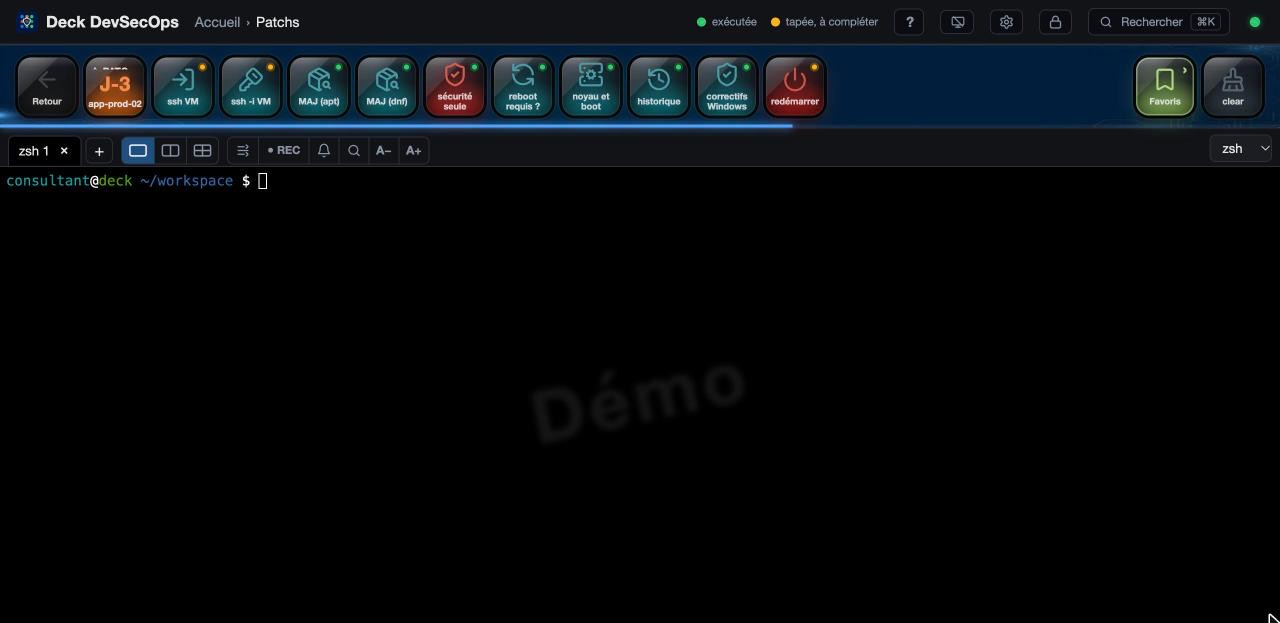
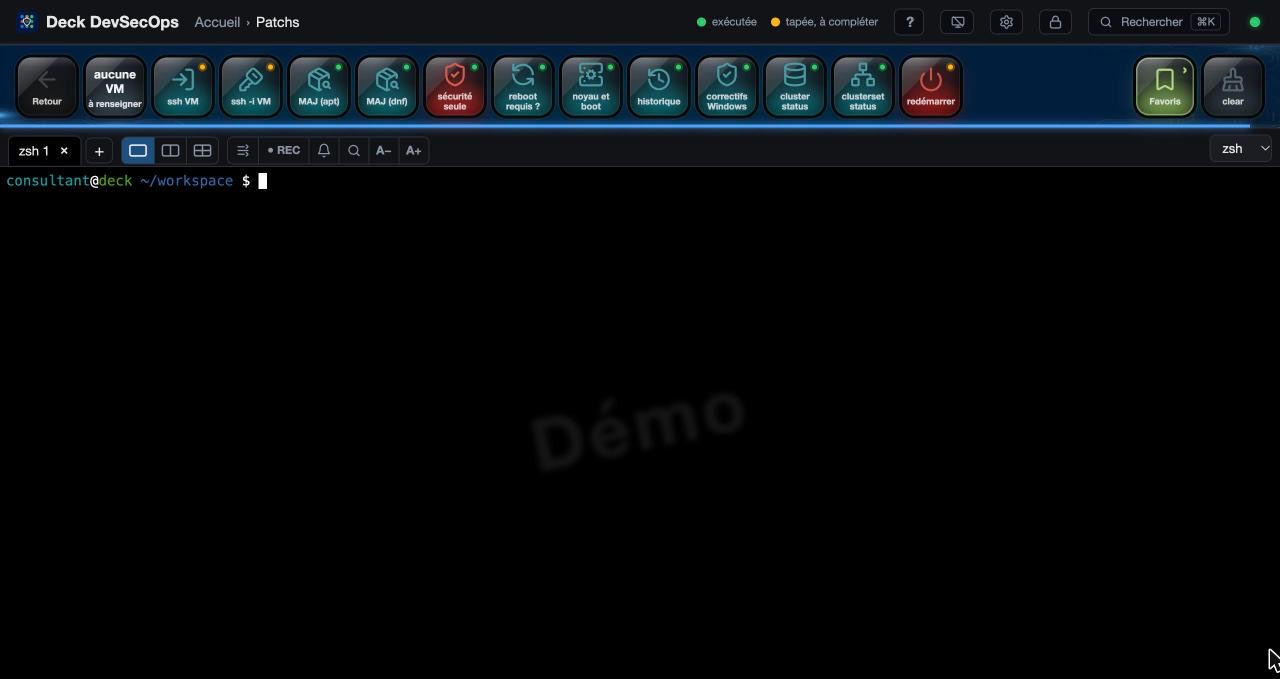
Patchs : clusters (MySQL InnoDB…) dans l'inventaire, vue en blocs, cluster status / clusterset status
- VM : champs Cluster, ClusterSet et Profil (standard, MySQL InnoDB Cluster), noms contrôlés ;
  colonnes CSV cluster, clusterset, profil (import, export, modèle) ; recherche étendue
- « ⬡ par cluster » : un bloc par cluster encadré aux couleurs de l'environnement ; en-tête
  (ClusterSet, profil, état le plus urgent) et carte des nœuds (état du patch, ↻ reboot requis,
  ⚠ sécurité, ✕ vérification en échec) ; clic pour replier / déplier ; choix retenus
- Dupliquer un nœud garde cluster, ClusterSet et profil
- Rubrique Patchs : touches cluster status et clusterset status (mysqlsh sur un nœud, après
  le ssh ; mot de passe demandé dans le terminal)
- Tests (91) ; docs/13 et captures ; README

Changed region(s): [[0.0, 0.0, 1.0, 0.305], [0.9688, 0.9759, 1.0, 1.0]]

diff --git a/public/app.js b/public/app.js
@@ -3854,6 +3854,84 @@ function setPatchSort(key, desc) {
 let patchPending = false;  // formulaire envoyé, en attente du serveur
 const patchChecking = new Set();   // VMs en cours de vérification (ssh, lecture seule)
 
+/** Regroupement de l'inventaire par cluster (retenu dans le navigateur). */
+let patchGroupByCluster = (() => { try { return localStorage.getItem("deck-patch-group") === "cluster"; } catch { return false; } })();
+
+/** Cluster et profil d'une VM, sous son nom. */
+function patchClusterLine(vm) {
+    if (!vm.cluster && !vm.profile) return "";
+    const div = Object.assign(document.createElement("div"), { className: "patch-cluster-line" });
+    if (vm.cluster) div.append(Object.assign(document.createElement("span"), { className: "patch-cluster", textContent: `⬡ ${vm.cluster}`, title: `Cluster ${vm.cluster}${vm.clusterSet ? ` · ClusterSet ${vm.clusterSet}` : ""}` }));
+    if (vm.profile === "mysql-innodb") div.append(Object.assign(document.createElement("span"), { className: "patch-profile", textContent: "MySQL InnoDB", title: "Profil MySQL InnoDB Cluster" }));
+    return div;
+}
+
+/** Clusters repliés (en-tête seul), retenus dans le navigateur. */
+const patchFolded = (() => { try { return new Set(JSON.parse(localStorage.getItem("deck-patch-folded") ?? "[]")); } catch { return new Set(); } })();
+
+/** Environnement d'un cluster (celui de la majorité de ses nœuds) : couleur du bloc. */
+function clusterEnv(cluster, all) {
+    const counts = {};
+    for (const v of all) if (v.cluster === cluster) counts[v.env] = (counts[v.env] ?? 0) + 1;
+    return Object.entries(counts).sort((a, b) => b[1] - a[1])[0]?.[0] ?? "";
+}
+
+/** Niveau d'urgence du patch d'une VM (comme sur sa ligne). */
+const vmLevel = (v) => { const d = patchDays(v); return d === null ? "orange" : d <= 1 ? "rouge" : d <= 7 ? "orange" : "ok"; };
+
+/**
+ * En-tête d'un cluster (mode regroupé) : nom, environnement, ClusterSet, profil ; carte des nœuds (pastille par nœud
+ * selon son état, ↻ reboot requis, ⚠ sécurité en attente) ; état le plus urgent ; clic = replier / déplier.
+ */
+function patchClusterHeader(cluster, nodes, all, folded = false) {
+    const env = cluster ? clusterEnv(cluster, all) : "";
+    const tr = Object.assign(document.createElement("tr"), { className: `patch-group grp-${cluster ? env || "autre" : "none"}${folded ? " folded" : ""}` });
+    const td = Object.assign(document.createElement("td"), { colSpan: 6 });
+    const el = (cls, text, title) => Object.assign(document.createElement("span"), { className: cls, textContent: text, ...(title ? { title } : {}) });
+    if (!cluster) {
+        td.append(el("patch-group-name none", "Sans cluster"), el("patch-group-meta", `${nodes.length} VM(s)`));
+        tr.append(td);
+        return tr;
+    }
+    const total = all.filter((v) => v.cluster === cluster);
+    const sets = [...new Set(total.map((v) => v.clusterSet).filter(Boolean))];
+    const levels = total.map(vmLevel);
+    const worst = levels.includes("rouge") ? "rouge" : levels.includes("orange") ? "orange" : "ok";
+    const checks = total.filter((v) => v.check && !v.check.error).length;
+    const reboot = total.filter((v) => v.check?.reboot).length;
+    const top = Object.assign(document.createElement("div"), { className: "patch-group-top" });
+    top.append(
+        el("patch-group-fold", folded ? "▸" : "▾"),
+        el("patch-group-icon", "⬡"),
+        el("patch-group-name", cluster),
+        ...[...new Set(total.map((v) => v.env))].map((e) => el(`patch-env env-${e}`, e)),
+        ...(sets.length ? [el("patch-group-meta", `ClusterSet ${sets.join(", ")}`)] : []),
+        ...(total.some((v) => v.profile === "mysql-innodb") ? [el("patch-profile", "MySQL InnoDB")] : []),
+        el("grow", ""),
+        el(`patch-group-state lvl-${worst}`, worst === "rouge" ? "patch en retard ou imminent" : worst === "orange" ? "patch sous 7 j" : "à jour")
+    );
+    // Carte des nœuds : un coup d'œil sur tout le cluster, même replié
+    const map = Object.assign(document.createElement("div"), { className: "patch-group-nodes" });
+    for (const v of [...total].sort((a, b) => a.name.localeCompare(b.name, "fr", { numeric: true }))) {
+        const d = patchDays(v);
+        const flags = `${v.check?.reboot ? " ↻" : ""}${v.check?.security ? " ⚠" : ""}${v.check?.error ? " ✕" : ""}`;
+        const pill = el(`patch-node-pill lvl-${vmLevel(v)}${nodes.includes(v) ? "" : " hidden-by-filter"}`, "",
+            `${v.name} · ${v.env} · prochain patch ${frDate(v.nextPatch)} (${patchLabel(d)})${v.check?.reboot ? " · reboot requis" : ""}${v.check?.security ? ` · ${v.check.security} MAJ de sécurité` : ""}${v.check?.error ? ` · vérification : ${v.check.error}` : ""}`);
+        pill.append(el("patch-node-dot", "●"), ` ${v.name}`, ...(flags ? [el("patch-node-flags", flags)] : []));
+        map.append(pill);
+    }
+    map.append(el("patch-group-meta", `${total.length} nœud(s)${nodes.length < total.length ? ` · ${nodes.length} affiché(s)` : ""}${checks ? ` · ${checks} vérifié(s)` : ""}${reboot ? ` · ${reboot} reboot requis` : ""}`));
+    td.append(top, map);
+    td.title = folded ? "Clic : déplier le cluster" : "Clic : replier le cluster (en-tête seul)";
+    tr.addEventListener("click", () => {
+        if (patchFolded.has(cluster)) patchFolded.delete(cluster); else patchFolded.add(cluster);
+        try { localStorage.setItem("deck-patch-folded", JSON.stringify([...patchFolded])); } catch { /* choix non retenu */ }
+        renderPatches();
+    });
+    tr.append(td);
+    return tr;
+}
+
 /** « il y a 2 h » / « hier » à partir d'une date ISO. */
 function ago(iso) {
     const min = Math.round((Date.now() - Date.parse(iso)) / 60000);
@@ -3908,7 +3986,7 @@ function renderPatches() {
     const vms = state.patches ?? [];
     const q = fold($("#patch-search").value.trim());
     renderPatchFilters(vms);
-    const shown = vms.filter((v) => !q || fold(`${v.name} ${v.host} ${v.env} ${v.description} ${(v.tags ?? []).join(" ")}`).includes(q))
+    const shown = vms.filter((v) => !q || fold(`${v.name} ${v.host} ${v.env} ${v.description} ${(v.tags ?? []).join(" ")} ${v.cluster ?? ""} ${v.clusterSet ?? ""}`).includes(q))
         .filter((v) => !patchFilter.env || v.env === patchFilter.env)
         .filter((v) => [...patchFilter.tags].every((t) => (v.tags ?? []).includes(t)))
         .filter((v) => !patchFilter.state || PATCH_STATES.find(([k]) => k === patchFilter.state)?.[2](v))
@@ -3921,7 +3999,8 @@ function renderPatches() {
     }
     const late = vms.filter((v) => (patchDays(v) ?? 0) < 0).length;
     $("#patch-summary").textContent = vms.length ? `${vms.length} VM(s)${late ? ` · ${late} en retard` : ""}` : "";
-    $("#patch-list").replaceChildren(...shown.map((vm) => {
+    const grouped = patchGroupByCluster && shown.some((v) => v.cluster);
+    const rowFor = (vm) => {
         const d = patchDays(vm);
         const level = d === null || d <= 7 ? (d === null || d > 1 ? "orange" : "rouge") : "ok";
         const tr = Object.assign(document.createElement("tr"), { className: `patch-${level}` });
@@ -3937,7 +4016,8 @@ function renderPatches() {
         const del = btn("Supprimer", "Retirer cette VM de l'inventaire", (ev) => armOrRun(ev.target, "Confirmer ?", () => send({ t: "patch-delete", id: vm.id })), "danger");
         tr.append(
             cell(Object.assign(document.createElement("span"), { className: "patch-dot", textContent: level === "rouge" ? "🔴" : level === "orange" ? "🟠" : "🟢" })),
-            cell([name, " ", env, ...tags.flatMap((t) => [" ", t]), host, patchCheckLine(vm)]),
+            // Mode regroupé : cluster et profil déjà dans l'en-tête du groupe
+            cell([name, " ", env, ...tags.flatMap((t) => [" ", t]), grouped ? "" : patchClusterLine(vm), host, patchCheckLine(vm)]),
             cell(vm.description || "—", "patch-desc"),
             cell(`${frDate(vm.lastPatch)}${vm.everyDays ? ` · tous les ${vm.everyDays} j` : ""}`),
             cell([next, when]),
@@ -3955,7 +4035,34 @@ function renderPatches() {
             ], "patch-actions")
         );
         return tr;
-    }));
+    };
+    // Regroupement par cluster : en-tête par cluster (environnement, ClusterSet, profil, nœuds, état), nœuds dessous ;
+    // ordre des groupes = celui du nœud le plus haut dans le tri ; VMs sans cluster à la fin
+    if (grouped) {
+        const groups = new Map();
+        for (const vm of shown) {
+            const key = vm.cluster || "";
+            if (!groups.has(key)) groups.set(key, []);
+            groups.get(key).push(vm);
+        }
+        const ordered = [...groups].sort(([a], [b]) => (a === "") - (b === ""));
+        // Un bloc par cluster : espace, en-tête, nœuds (sauf replié) encadrés aux couleurs de l'environnement
+        $("#patch-list").replaceChildren(...ordered.flatMap(([cluster, nodes], gi) => {
+            const env = cluster ? clusterEnv(cluster, vms) : "";
+            const folded = cluster && patchFolded.has(cluster);
+            const rows = folded ? [] : nodes.map((vm, i) => {
+                const tr = rowFor(vm);
+                tr.classList.add("patch-node", `grp-${cluster ? env || "autre" : "none"}`);
+                if (i === nodes.length - 1) tr.classList.add("last");
+                return tr;
+            });
+            const spacer = Object.assign(document.createElement("tr"), { className: "patch-spacer" });
+            spacer.append(Object.assign(document.createElement("td"), { colSpan: 6 }));
+            return [...(gi ? [spacer] : []), patchClusterHeader(cluster, nodes, vms, folded), ...rows];
+        }));
+    } else {
+        $("#patch-list").replaceChildren(...shown.map(rowFor));
+    }
     if (!shown.length) {
         const tr = document.createElement("tr");
         tr.append(Object.assign(document.createElement("td"), { colSpan: 6, className: "hint", textContent: vms.length ? "aucune VM ne correspond" : "aucune VM : « + VM » pour commencer" }));
@@ -3993,6 +4100,13 @@ function openPatchForm(vm = null, { duplicate = false } = {}) {
     $("#patch-every").value = vm?.everyDays ?? "";
     $("#patch-desc").value = vm?.description ?? "";
     $("#patch-tags").value = (vm?.tags ?? []).join(", ");
+    $("#patch-cluster").value = vm?.cluster ?? "";
+    $("#patch-clusterset").value = vm?.clusterSet ?? "";
+    $("#patch-profile").value = vm?.profile ?? "";
+    // Clusters et ClusterSets déjà utilisés proposés à la saisie
+    const usedValues = (k) => [...new Set((state.patches ?? []).map((v) => v[k]).filter(Boolean))].sort();
+    $("#patch-cluster-list").replaceChildren(...usedValues("cluster").map((c) => new Option(c)));
+    $("#patch-clusterset-list").replaceChildren(...usedValues("clusterSet").map((c) => new Option(c)));
     // Tags déjà utilisés proposés à la saisie
     const known = [...new Set((state.patches ?? []).flatMap((v) => v.tags ?? []))].sort();
     $("#patch-tag-list").replaceChildren(...known.map((t) => new Option(t)));
@@ -4010,7 +4124,8 @@ function savePatch() {
         ...(patchEditing ? { id: patchEditing.id } : {}),
         name: $("#patch-name").value, host: $("#patch-host").value, identity: $("#patch-identity").value, env: $("#patch-env").value,
         lastPatch: $("#patch-last").value, nextPatch: $("#patch-next").value,
-        everyDays: $("#patch-every").value, description: $("#patch-desc").value, tags: $("#patch-tags").value
+        everyDays: $("#patch-every").value, description: $("#patch-desc").value, tags: $("#patch-tags").value,
+        cluster: $("#patch-cluster").value, clusterSet: $("#patch-clusterset").value, profile: $("#patch-profile").value
     } });
 }
 
@@ -4044,9 +4159,16 @@ function renderPatchFilters(vms) {
     sort.addEventListener("change", () => setPatchSort(sort.value, false));
     const dir = Object.assign(document.createElement("button"), { type: "button", className: "patch-chip patch-dir", textContent: patchSort.desc ? "↓ décroissant" : "↑ croissant", title: "Inverser l'ordre" });
     dir.addEventListener("click", () => setPatchSort(patchSort.key, !patchSort.desc));
+    const group = Object.assign(document.createElement("button"), { type: "button", className: `patch-chip patch-group-toggle${patchGroupByCluster ? " on" : ""}`, textContent: "⬡ par cluster", title: "Regrouper les nœuds d'un même cluster (en-tête avec environnement, ClusterSet, état)" });
+    group.setAttribute("aria-pressed", String(patchGroupByCluster));
+    group.addEventListener("click", () => {
+        patchGroupByCluster = !patchGroupByCluster;
+        try { localStorage.setItem("deck-patch-group", patchGroupByCluster ? "cluster" : ""); } catch { /* choix non retenu */ }
+        renderPatches();
+    });
     const row2 = Object.assign(document.createElement("div"), { className: "patch-filter-row" });
     row2.append(Object.assign(document.createElement("span"), { className: "patch-filter-label", textContent: "État" }), ...states,
-        Object.assign(document.createElement("span"), { className: "grow" }), sort, dir);
+        Object.assign(document.createElement("span"), { className: "grow" }), ...(vms.some((v) => v.cluster) ? [group] : []), sort, dir);
     $("#patch-filters").replaceChildren(row1, row2);
     $("#patch-filters").hidden = vms.length === 0;
 }
@@ -4090,9 +4212,10 @@ function showPatchImport(msg) {
     $("#patch-import-confirm").hidden = false;
 }
 
-const PATCH_TEMPLATE = "\uFEFFnom;hote;cle;environnement;dernier_patch;prochain_patch;frequence;tags;description\r\n"
-    + "app-prod-01;app-prod-01;~/.ssh/id_ed25519;production;10/10/2026;;30;linux, critique;API paiement (RHEL 9), maintenance le mardi 22h\r\n"
-    + "db-recette-01;admin@10.0.0.12;;recette;;15/12/2026;;linux, postgres;PostgreSQL 16\r\n";
+const PATCH_TEMPLATE = "\uFEFFnom;hote;cle;environnement;dernier_patch;prochain_patch;frequence;tags;cluster;clusterset;profil;description\r\n"
+    + "app-prod-01;app-prod-01;~/.ssh/id_ed25519;production;10/10/2026;;30;linux, critique;;;standard;API paiement (RHEL 9), maintenance le mardi 22h\r\n"
+    + "mysql-rec-01;admin@10.0.0.21;;recette;;15/12/2026;30;linux, mysql;CL-MYSQL-REC;CS_MYSQL;mysql;Nœud 1 du cluster MySQL de recette\r\n"
+    + "mysql-rec-02;admin@10.0.0.22;;recette;;16/12/2026;30;linux, mysql;CL-MYSQL-REC;CS_MYSQL;mysql;Nœud 2 (un nœud à la fois)\r\n";
 
 /** VM passée à l'orange / au rouge : message et notification du système (si autorisée), une fois par seuil. */
 function patchAlert(alerts) {

diff --git a/public/style.css b/public/style.css
@@ -1552,3 +1552,62 @@ input[type="date"]::-webkit-calendar-picker-indicator:hover, input[type="datetim
 }
 #screens.grid .screen.remote-host::after { color: #fff; background: var(--remote-c); font-weight: 700; }
 .share-mode #screens:not(.grid) .screen.remote-host::after { filter: blur(4px); }
+/* Patchs : clusters (ligne de la VM, en-têtes en mode regroupé) */
+.patch-cluster-line { display: flex; flex-wrap: wrap; gap: 4px; margin: 2px 0 1px; }
+.patch-cluster { display: inline-block; padding: 0 6px; border-radius: 8px; font-size: 10.5px; font-weight: 700; color: #b39ddb; border: 1px solid color-mix(in srgb, #7e57c2 70%, transparent); }
+.patch-profile { display: inline-block; padding: 0 6px; border-radius: 8px; font-size: 10.5px; font-weight: 700; color: #fff; background: #00758f; }
+[data-mode="light"] .patch-cluster { color: #5e35b1; }
+.patch-table tbody tr.patch-group td { padding: 9px 8px 7px; background: color-mix(in srgb, #7e57c2 16%, var(--panel)) !important; border-top: 2px solid color-mix(in srgb, #7e57c2 60%, transparent); box-shadow: none !important; }
+.patch-table tbody tr.patch-group td > * { margin-right: 8px; vertical-align: middle; }
+.patch-table tbody tr.patch-group.none td { background: color-mix(in srgb, var(--text) 6%, var(--panel)) !important; border-top-color: var(--border); color: var(--muted); font-size: 12px; }
+.patch-group-name { font-weight: 800; font-size: 13.5px; color: var(--text); }
+.patch-group-meta { font-size: 12px; color: var(--muted); }
+.patch-group-state { font-size: 12px; font-weight: 700; }
+.patch-group-state.lvl-rouge { color: #ef5350; }
+.patch-group-state.lvl-orange { color: #ffa040; }
+.patch-group-state.lvl-ok { color: #66bb6a; }
+.patch-table tbody tr.patch-group:hover td { background: color-mix(in srgb, #7e57c2 16%, var(--panel)) !important; }
+.patch-chip.patch-group-toggle.on { background: #7e57c2; color: #fff; }
+/* Patchs regroupés par cluster : un bloc encadré aux couleurs de l'environnement */
+.patch-table tbody tr.grp-production { --grp: #e53935; }
+.patch-table tbody tr.grp-recette { --grp: #1e88e5; }
+.patch-table tbody tr.grp-qualification { --grp: #f9a825; }
+.patch-table tbody tr.grp-développement { --grp: #43a047; }
+.patch-table tbody tr.grp-autre { --grp: #8e24aa; }
+.patch-table tbody tr.grp-none { --grp: var(--border); }
+.patch-table tbody tr.patch-spacer td { height: 14px; padding: 0; border: 0; background: transparent !important; box-shadow: none !important; }
+.patch-table tbody tr.patch-spacer:hover td { background: transparent !important; }
+.patch-table tbody tr.patch-group td {
+    padding: 10px 12px 9px; cursor: pointer;
+    background: color-mix(in srgb, var(--grp) 18%, var(--panel)) !important;
+    border-top: 2px solid var(--grp); border-left: 5px solid var(--grp); border-right: 1px solid var(--grp); border-bottom: 1px solid color-mix(in srgb, var(--grp) 45%, transparent);
+    box-shadow: none !important;
+}
+.patch-table tbody tr.patch-group.folded td { border-bottom: 2px solid var(--grp); }
+.patch-table tbody tr.patch-group:hover td { background: color-mix(in srgb, var(--grp) 26%, var(--panel)) !important; }
+.patch-table tbody tr.patch-group.grp-none td { background: color-mix(in srgb, var(--text) 5%, var(--panel)) !important; border-left-width: 3px; cursor: default; }
+.patch-group-top { display: flex; flex-wrap: wrap; align-items: center; gap: 8px; }
+.patch-group-top .grow { flex: 1; }
+.patch-group-fold { width: 12px; color: var(--muted); font-size: 12px; }
+.patch-group-icon { font-size: 18px; line-height: 1; color: var(--grp); }
+.patch-group-name { font-weight: 800; font-size: 15px; letter-spacing: .02em; color: var(--text); }
+.patch-group-name.none { font-size: 13px; color: var(--muted); }
+.patch-group-state { padding: 2px 10px; border-radius: 10px; font-size: 12px; font-weight: 700; color: #fff; }
+.patch-group-state.lvl-rouge { background: #c62828; }
+.patch-group-state.lvl-orange { background: #e65100; }
+.patch-group-state.lvl-ok { background: #2e7d32; }
+.patch-group-nodes { display: flex; flex-wrap: wrap; align-items: center; gap: 6px; margin: 7px 0 0 20px; }
+.patch-node-pill { padding: 2px 9px; border-radius: 12px; font-size: 12px; font-weight: 600; font-family: Consolas, Menlo, monospace; color: var(--text); background: color-mix(in srgb, var(--text) 8%, transparent); border: 1px solid color-mix(in srgb, var(--text) 18%, transparent); }
+.patch-node-pill.lvl-rouge { border-color: #e53935; background: color-mix(in srgb, #e53935 22%, transparent); }
+.patch-node-pill.lvl-orange { border-color: #fb8c00; background: color-mix(in srgb, #fb8c00 20%, transparent); }
+.patch-node-pill.lvl-ok { border-color: #43a047; background: color-mix(in srgb, #43a047 18%, transparent); }
+.patch-node-pill.hidden-by-filter { opacity: .45; }
+/* Nœuds du cluster : rail de couleur à gauche, cadre à droite et en bas du bloc, léger retrait */
+.patch-table tbody tr.patch-node td:first-child { border-left: 5px solid var(--grp); box-shadow: none; padding-left: 14px; }
+.patch-table tbody tr.patch-node td:last-child { border-right: 1px solid var(--grp); }
+.patch-table tbody tr.patch-node.last td { border-bottom: 2px solid var(--grp); }
+.patch-table tbody tr.patch-node.grp-none td:first-child { border-left-width: 3px; }
+.patch-node-pill .patch-node-dot { color: #43a047; }
+.patch-node-pill.lvl-rouge .patch-node-dot { color: #ff5252; }
+.patch-node-pill.lvl-orange .patch-node-dot { color: #ffa040; }
+.patch-node-flags { color: #ffb74d; font-weight: 800; }

diff --git a/public/index.html b/public/index.html
@@ -639,7 +639,7 @@
                 <strong id="patch-import-title"></strong>
                 <span id="patch-import-summary"></span>
                 <ul id="patch-import-errors" class="patch-import-errors"></ul>
-                <span class="hint">Colonnes reconnues : nom (obligatoire), hote, cle, environnement, dernier_patch, prochain_patch, frequence, tags, description ; séparateur « ; » ou « , » ; dates JJ/MM/AAAA. Les VMs existantes (même nom) sont mises à jour, aucune n'est supprimée. <a href="#" id="patch-template">Télécharger un modèle CSV</a></span>
+                <span class="hint">Colonnes reconnues : nom (obligatoire), hote, cle, environnement, dernier_patch, prochain_patch, frequence, tags, cluster, clusterset, profil (standard ou mysql), description ; séparateur « ; » ou « , » ; dates JJ/MM/AAAA. Les VMs existantes (même nom) sont mises à jour, aucune n'est supprimée. <a href="#" id="patch-template">Télécharger un modèle CSV</a></span>
                 <span class="settings-actions">
                     <button type="button" id="patch-import-ok" class="primary">Importer</button>
                     <button type="button" id="patch-import-cancel">Annuler</button>
@@ -664,6 +664,14 @@
                     <label>Prochain patch <input id="patch-next" type="date"></label>
                     <label>Fréquence <span class="hint">jours, facultatif (ex. 30)</span> <input id="patch-every" type="number" min="1" max="730" step="1"></label>
                     <label class="patch-tags-field">Tags <span class="hint">facultatif, séparés par des virgules (ex. linux, dmz, critique)</span> <input id="patch-tags" type="text" maxlength="260" list="patch-tag-list" spellcheck="false"><datalist id="patch-tag-list"></datalist></label>
+                    <label>Cluster <span class="hint">facultatif : nœuds du même cluster regroupés (ex. CL-MYSQL-LT1-REC)</span> <input id="patch-cluster" type="text" maxlength="60" list="patch-cluster-list" spellcheck="false" placeholder="CL-MYSQL-LT1-REC"><datalist id="patch-cluster-list"></datalist></label>
+                    <label>ClusterSet <span class="hint">facultatif (MySQL)</span> <input id="patch-clusterset" type="text" maxlength="60" list="patch-clusterset-list" spellcheck="false" placeholder="CS_MYSQL_LT1"><datalist id="patch-clusterset-list"></datalist></label>
+                    <label>Profil
+                        <select id="patch-profile">
+                            <option value="">standard</option>
+                            <option value="mysql-innodb">MySQL InnoDB Cluster</option>
+                        </select>
+                    </label>
                 </div>
                 <label>Description <textarea id="patch-desc" rows="2" maxlength="500" placeholder="Rôle, OS, contraintes (fenêtre de maintenance, contact…)"></textarea></label>
                 <span id="patch-error" class="mission-error" role="alert" hidden></span>

diff --git a/README.md b/README.md
@@ -205,7 +205,7 @@ Après une modification de `config.jsonc` ou `paths.json`, redémarrer le serveu
 
 ## Patchs des VMs
 
-Rubrique **Patchs** (à cocher dans Réglages › Rubriques) : inventaire de tes VMs (nom, hôte SSH, clé SSH pour `ssh -i`, environnement, tags libres (`linux, dmz, critique`), description, dernier et prochain patch, fréquence) dans `patches.json` (hors Git, sauvegardé, inclus dans la configuration complète). Le **voyant patchs** affiche la VM la plus urgente (J-3, J, J+2 en retard) : vert, **orange à 7 jours ou moins**, **rouge à J-1, le jour même ou en retard** ; alertes une fois par seuil comme pour les certificats. **Patché** met le dernier patch à aujourd'hui et recalcule le prochain avec la fréquence (noté dans le journal). Touches **ssh VM** et **ssh -i VM** (clé puis hôte, listes réelles) ; bouton **SSH** de l'inventaire avec la clé de la VM si elle est renseignée. Touches de vérification sur la VM après un ssh : mises à jour en attente (apt / dnf), sécurité, redémarrage requis, noyau, historique, correctifs Windows. **Import en masse** depuis un CSV (Excel : séparateur `;`, dates JJ/MM/AAAA ; colonnes nom, hote, cle, environnement, dernier_patch, prochain_patch, frequence, tags, description) avec aperçu avant confirmation (ajout ou mise à jour par nom, jamais de suppression), **export CSV** réimportable et modèle à remplir. **Terminal connecté à une VM** : cadre de couleur autour du terminal (rouge en production, bleu sinon), étiquette accrochée au cadre (« SSH · app-prod-01 · production ») et nom sur l'onglet : VM de l'inventaire, sinon l'hôte ; seule la destination est lue dans la commande ssh. Inventaire lisible (lignes alternées, ligne survolée, liseré d'urgence). **Filtres** par environnement, par tags (combinés) et par **état** (en retard, sous 7 j, sécurité en attente, reboot requis, jamais vérifiée, vérification en échec), avec le nombre de VMs ; **tri** par urgence, nom, environnement, dates, MAJ en attente ou dernière vérification (menu, ou clic sur les titres de colonnes ; retenu). **Dupliquer** une VM : formulaire pré-rempli, nom suivant libre (`app-prod-01` → `app-prod-02`). Les touches qui demandent un hôte (**ssh VM**, **ssh -i VM**, rubrique SSH) proposent **les VMs de l'inventaire en tête** (nom et environnement affichés), la clé de la VM étant reprise pour `ssh -i`. **Vérifier** / **Vérifier tout** : ssh par clé, sans mot de passe (`BatchMode`, clé d'hôte jamais acceptée à ta place), en **lecture seule** : mises à jour en attente dont sécurité (apt, dnf/yum ; zypper, apk), redémarrage requis, OS, noyau ; résultat gardé dans l'inventaire. Détails : [docs/13-patchs.md](docs/13-patchs.md).
+Rubrique **Patchs** (à cocher dans Réglages › Rubriques) : inventaire de tes VMs (nom, hôte SSH, clé SSH pour `ssh -i`, environnement, tags libres (`linux, dmz, critique`), description, dernier et prochain patch, fréquence) dans `patches.json` (hors Git, sauvegardé, inclus dans la configuration complète). Le **voyant patchs** affiche la VM la plus urgente (J-3, J, J+2 en retard) : vert, **orange à 7 jours ou moins**, **rouge à J-1, le jour même ou en retard** ; alertes une fois par seuil comme pour les certificats. **Patché** met le dernier patch à aujourd'hui et recalcule le prochain avec la fréquence (noté dans le journal). Touches **ssh VM** et **ssh -i VM** (clé puis hôte, listes réelles) ; bouton **SSH** de l'inventaire avec la clé de la VM si elle est renseignée. Touches de vérification sur la VM après un ssh : mises à jour en attente (apt / dnf), sécurité, redémarrage requis, noyau, historique, correctifs Windows. **Import en masse** depuis un CSV (Excel : séparateur `;`, dates JJ/MM/AAAA ; colonnes nom, hote, cle, environnement, dernier_patch, prochain_patch, frequence, tags, description) avec aperçu avant confirmation (ajout ou mise à jour par nom, jamais de suppression), **export CSV** réimportable et modèle à remplir. **Terminal connecté à une VM** : cadre de couleur autour du terminal (rouge en production, bleu sinon), étiquette accrochée au cadre (« SSH · app-prod-01 · production ») et nom sur l'onglet : VM de l'inventaire, sinon l'hôte ; seule la destination est lue dans la commande ssh. Inventaire lisible (lignes alternées, ligne survolée, liseré d'urgence). **Filtres** par environnement, par tags (combinés) et par **état** (en retard, sous 7 j, sécurité en attente, reboot requis, jamais vérifiée, vérification en échec), avec le nombre de VMs ; **tri** par urgence, nom, environnement, dates, MAJ en attente ou dernière vérification (menu, ou clic sur les titres de colonnes ; retenu). Touches **cluster status** et **clusterset status** (MySQL InnoDB Cluster, à lancer sur un nœud après le ssh : `mysqlsh root@$(hostname) -- cluster status` / `clusterset status --extended=1`, mot de passe demandé par mysqlsh). **Clusters** : champs Cluster, ClusterSet et Profil (standard ou MySQL InnoDB Cluster) par VM, colonnes CSV `cluster`, `clusterset`, `profil` ; **⬡ par cluster** regroupe l'inventaire avec un en-tête par cluster (environnement, ClusterSet, nœuds, reboot requis, état le plus urgent). **Dupliquer** une VM : formulaire pré-rempli, nom suivant libre (`app-prod-01` → `app-prod-02`). Les touches qui demandent un hôte (**ssh VM**, **ssh -i VM**, rubrique SSH) proposent **les VMs de l'inventaire en tête** (nom et environnement affichés), la clé de la VM étant reprise pour `ssh -i`. **Vérifier** / **Vérifier tout** : ssh par clé, sans mot de passe (`BatchMode`, clé d'hôte jamais acceptée à ta place), en **lecture seule** : mises à jour en attente dont sécurité (apt, dnf/yum ; zypper, apk), redémarrage requis, OS, noyau ; résultat gardé dans l'inventaire. Détails : [docs/13-patchs.md](docs/13-patchs.md).
 
 **Échéances** (bouton Calendrier, ou ⌘K) : calendrier du mois des prochains patchs et des expirations de certificats, liste du retard et des 60 prochains jours, **export .ics** pour Outlook / Google Agenda (rappel 3 j avant en production, 1 j sinon ; réimporter met à jour sans dupliquer). **Synthèse du client** (⌘K) : état de la mission (contexte kubectl, certificats et VMs par environnement, à traiter, échéances à 30 jours, actions en production des 7 derniers jours), à copier en Markdown ou télécharger. Détails : [docs/14-echeances-et-synthese.md](docs/14-echeances-et-synthese.md).
 

diff --git a/docs/13-patchs.md b/docs/13-patchs.md
@@ -18,7 +18,13 @@ Active-la dans **Réglages › Rubriques** (case **Patchs**). Elle contient :
 - des commandes à lancer **sur la VM** (après le ssh) : mises à jour en attente (**MAJ (apt)**, **MAJ (dnf)**),
   **sécurité seule**, **reboot requis ?**, **noyau et boot**, **historique** des derniers paquets, **redémarrer** (dans
   1 min, à valider) ; sous Windows, elles s'activent une fois le terminal connecté en ssh ;
-- **correctifs Windows** : les 10 derniers KB installés (PowerShell).
+- **correctifs Windows** : les 10 derniers KB installés (PowerShell) ;
+- **MySQL InnoDB Cluster**, depuis un terminal connecté à un nœud du cluster (lecture seule, mysqlsh demande le mot
+  de passe root dans le terminal ; le deck ne le voit pas) :
+  - **cluster status** : `mysqlsh root@$(hostname) -- cluster status` (état des nœuds, PRIMARY / SECONDARY,
+    quorum) ;
+  - **clusterset status** : `mysqlsh root@$(hostname) -- clusterset status --extended=1`, à utiliser quand
+    `cluster status` échoue parce que le ClusterSet n'est pas ONLINE.
 
 | Couleur du voyant | Signification |
 |---|---|
@@ -74,6 +80,32 @@ Pour chaque VM :
 **Calendrier** (en-tête) : les échéances du mois et l'export vers Outlook, voir
 [Échéances et synthèse](14-echeances-et-synthese.md).
 
+## Clusters (MySQL InnoDB Cluster…)
+
+![Inventaire regroupé par cluster](img/patchs-clusters.jpg)
+
+Les nœuds d'un même cluster se patchent ensemble, et pas n'importe comment : un nœud à la fois, jamais deux
+environnements en même temps. Pour chaque VM, trois champs facultatifs :
+
+- **Cluster** : le nom du cluster (ex. `CL-MYSQL-APP-REC`) ; les clusters déjà saisis sont proposés ;
+- **ClusterSet** : l'ensemble qui contient le cluster (MySQL InnoDB ClusterSet) ;
+- **Profil** : *standard* ou **MySQL InnoDB Cluster** (étiquette « MySQL InnoDB » ; base des futurs contrôles propres
+  à MySQL).
+
+**⬡ par cluster** (à côté du tri) regroupe l'inventaire en **blocs**, un par cluster, encadrés aux couleurs de
+l'environnement (production rouge, recette bleu, qualification ambre, développement vert) :
+
+- **en-tête** : nom du cluster, environnement, ClusterSet, profil, et l'état le plus urgent du cluster ;
+- **carte des nœuds** : une pastille par nœud, colorée selon son patch (🔴 en retard ou J-1, 🟠 sous 7 j, 🟢 plus
+  tard), avec **↻** reboot requis, **⚠** mises à jour de sécurité en attente, **✕** vérification en échec (détail au
+  survol) ; le nombre de nœuds, de nœuds vérifiés et de reboots requis ;
+- **clic sur l'en-tête** : replier le cluster (en-tête et carte seuls) ou le déplier ; retenu ;
+- les nœuds dessous, triés selon le tri choisi ; les VMs sans cluster à la fin. Hors regroupement, le cluster et le profil s'affichent sous le
+nom de la VM. Le champ **Filtrer** cherche aussi dans le cluster et le ClusterSet.
+
+**Dupliquer** un nœud garde son cluster, son ClusterSet et son profil : pratique pour ajouter le nœud suivant
+(`mysql-rec-03` → `mysql-rec-04`).
+
 ## Vérifier une VM en un clic
 
 **Vérifier** (sur une VM) ou **Vérifier tout** (en-tête, 4 VMs à la fois) : le deck se connecte en ssh avec la clé de
@@ -119,7 +151,7 @@ patch et la fréquence, le prochain est calculé. Une erreur s'affiche dans le f
 
 - une ligne d'en-tête, puis une VM par ligne ; colonnes reconnues, dans n'importe quel ordre, en français ou en
   anglais : `nom` (obligatoire), `hote`, `cle`, `environnement`, `dernier_patch`, `prochain_patch`, `frequence`,
-  `tags` (séparés par des virgules), `description` ;
+  `tags` (séparés par des virgules), `cluster`, `clusterset`, `profil` (`standard` ou `mysql`), `description` ;
 - séparateur `;` (Excel en français), `,` ou tabulation, détecté automatiquement ; valeurs entre guillemets acceptées ;
 - dates `JJ/MM/AAAA` ou `AAAA-MM-JJ` ; environnements `prod`, `dev`, `qualif` reconnus.
 
